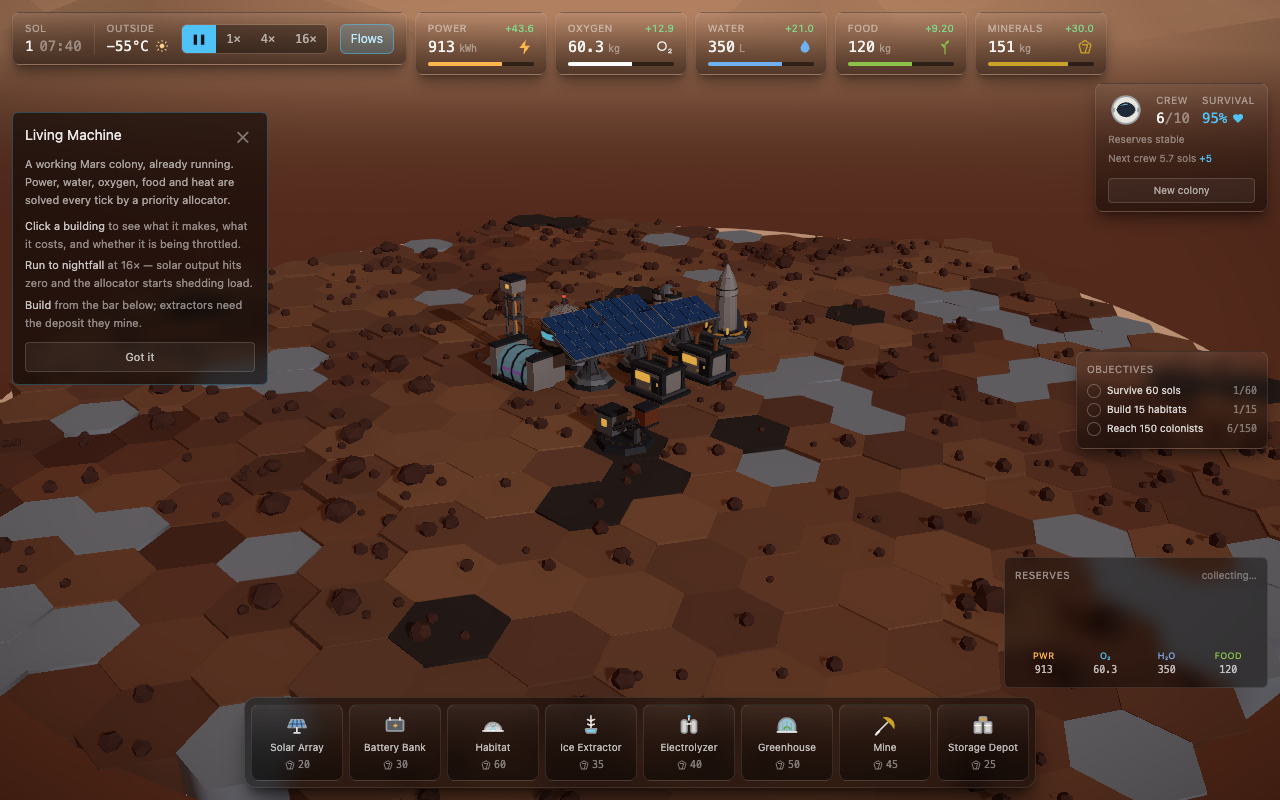
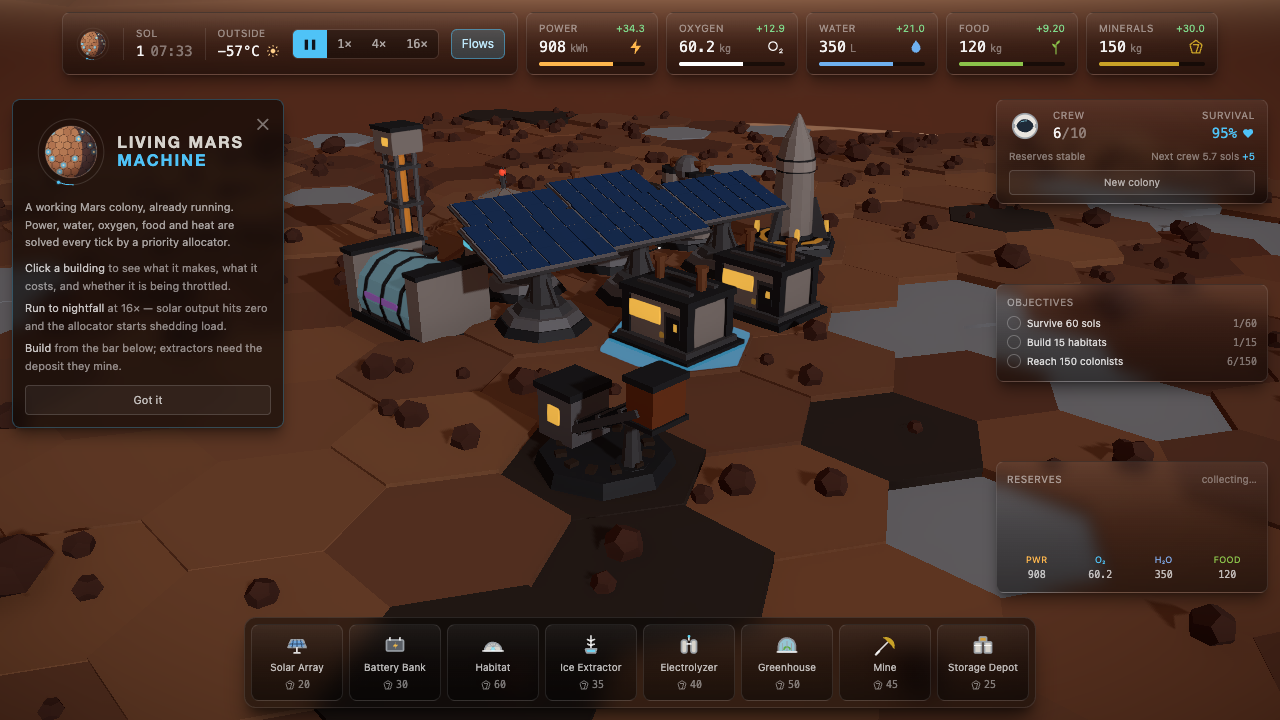
feat: update README images and add zoom functionality for screenshots
- Updated the README to reflect new image descriptions for the colony's opening morning and night scenes.
- Introduced a new `zoomToColony` function in `framing.ts` to enhance screenshot captures by zooming in on the colony.
- Integrated the zoom functionality into existing smoke and visual tests to improve the quality of reference images.

diff --git a/e2e/smoke.spec.ts b/e2e/smoke.spec.ts
@@ -1,5 +1,6 @@
 import { expect, test } from '@playwright/test';
 import type { ConsoleMessage, Page } from '@playwright/test';
+import { zoomToColony } from './framing.ts';
 
 /**
  * Smoke coverage for the rendered app.
@@ -119,55 +120,28 @@ test('captures a reference screenshot of the scene', async ({ page }) => {
   await page.goto('/');
   await waitForCanvas(page);
   await page.waitForTimeout(1500);
+  await zoomToColony(page);
   await page.screenshot({ path: 'test-results/scene.png', fullPage: false });
 });
 
 /**
- * Not an assertion — a visual reference showing the whole HUD populated: several sols of
- * history in the sparkline and the inspector open on a building.
+ * Not an assertion — a visual reference of the opening frame: the founding rocket still on
+ * its pad, and the tutorial panel the colony greets a new player with.
+ *
+ * Captured on sol 1 and never run forward, and nothing in the scene is clicked. The rocket
+ * is parked only for the first half of the opening sol (see `rocketPhase.ts`), and a click
+ * would trade the opening panel for the building inspector — this reference is what the
+ * game looks like before the player has done anything.
  */
 test('captures a reference screenshot of the full interface', async ({ page }) => {
-  // Waiting for a specific time of day can take most of a simulated sol.
-  test.setTimeout(120_000);
   await page.goto('/');
   await waitForCanvas(page);
 
-  await page.getByRole('button', { name: '16×' }).click();
-  await page.waitForTimeout(9000); // ~2.5 sols, enough for the sparkline to have a shape.
-
-  // Then hold for daylight: a fixed wait lands wherever it lands, and an evening frame
-  // undersells a scene whose whole point is the light. Drop to 1x first — at 16x the clock
-  // moves several hours between the poll succeeding and the pause click landing, which is
-  // how this test kept producing dusk screenshots.
-  // 4x is the compromise: fast enough that a whole sol is a 15 second wait, slow enough
-  // that the three-hour target window lasts ~2 s and the pause click lands inside it.
-  await page.getByRole('button', { name: '4×' }).click();
-  await expect
-    .poll(
-      async () => {
-        const clock =
-          (await page
-            .getByText(/^\d{2}:\d{2}$/)
-            .first()
-            .textContent()) ?? '00:00';
-        const hour = Number(clock.split(':')[0] ?? 0);
-        // A lower bound alone is satisfied by 21:00 as readily as by noon.
-        return hour >= 11 && hour <= 14;
-      },
-      { timeout: 60_000, intervals: [120] },
-    )
-    .toBe(true);
+  // Paused before anything else: the colony opens at 07:40 and the rocket lifts off at
+  // midday, so letting the clock run at all is time spent walking towards an empty pad.
   await page.getByRole('button', { name: '❚❚' }).click();
-  await page.waitForTimeout(300);
-
-  const box = await page.locator('canvas').boundingBox();
-  if (!box) return;
-  const idleButton = page.getByRole('button', { name: 'Idle', exact: true });
-  for (const offsetX of [0, -0.04, 0.04, -0.08, 0.08, -0.12, 0.12]) {
-    await page.mouse.click(box.x + box.width * (0.5 + offsetX), box.y + box.height * 0.46);
-    await page.waitForTimeout(100);
-    if (await idleButton.isVisible()) break;
-  }
+  await page.waitForTimeout(500);
+  await zoomToColony(page);
 
   await page.screenshot({ path: 'test-results/interface.png', fullPage: false });
 });

diff --git a/e2e/visual.spec.ts b/e2e/visual.spec.ts
@@ -1,5 +1,6 @@
 import { expect, test } from '@playwright/test';
 import type { Page } from '@playwright/test';
+import { zoomToColony } from './framing.ts';
 
 /**
  * Visual references for the day/night cycle.
@@ -74,6 +75,11 @@ test('night is visibly darker than day', async ({ page }) => {
   await page.getByRole('button', { name: '❚❚' }).click();
   await page.waitForTimeout(400);
   const nightBrightness = await meanBrightness(page);
+
+  // Zoomed in only for the capture, and only after both readings are taken: close framing
+  // fills the frame with lit windows, which would flatter the night sample and turn the
+  // brightness comparison below into a test of the camera rather than of the lighting.
+  await zoomToColony(page);
   await page.screenshot({ path: 'test-results/night.png' });
 
   // The whole point of the day/night cycle: it has to be visible, not merely simulated.
@@ -92,6 +98,8 @@ test('captures the rocket on approach', async ({ page }) => {
   test.setTimeout(180_000);
   await page.goto('/');
   await waitForScene(page);
+
+  await zoomToColony(page);
 
   await page.getByRole('button', { name: '16×' }).click();
   await expect

diff --git a/e2e/framing.ts b/e2e/framing.ts
@@ -1,0 +1,23 @@
+import type { Page } from '@playwright/test';
+
+/**
+ * Pulls the camera in on the colony before a reference capture.
+ *
+ * The default framing sits far enough out to show the horizon, which sells the planet but
+ * leaves the buildings too small to read in a screenshot. Zooming is done through the wheel
+ * rather than by moving the camera directly so the captures show a framing a player can
+ * actually reach through OrbitControls.
+ */
+export async function zoomToColony(page: Page): Promise<void> {
+  const box = await page.locator('canvas').boundingBox();
+  if (!box) return;
+  const x = box.x + box.width / 2;
+  const y = box.y + box.height / 2;
+  await page.mouse.move(x, y);
+  for (let step = 0; step < 12; step++) {
+    await page.mouse.wheel(0, -120);
+    await page.waitForTimeout(40);
+  }
+  // Damping keeps moving the camera after the last wheel event.
+  await page.waitForTimeout(600);
+}

diff --git a/README.md b/README.md
@@ -16,12 +16,12 @@ oxygen, food and heat every tick.
 
 The rendering is the readout. The simulation is the product.
 
-![The colony at midday, founding rocket on the pad](./docs/interface.png)
+![The colony on its opening morning, founding rocket on the pad](./docs/interface.png)
 
 At night solar output reaches zero, the batteries carry the colony, and the allocator sheds
 the mine and then the greenhouse to keep life support running until sunrise:
 
-![The same colony after dark, rocket still on the pad](./docs/night.png)
+![The same colony after dark, the founding rocket long gone](./docs/night.png)
 
 ## Tech Stack
 
